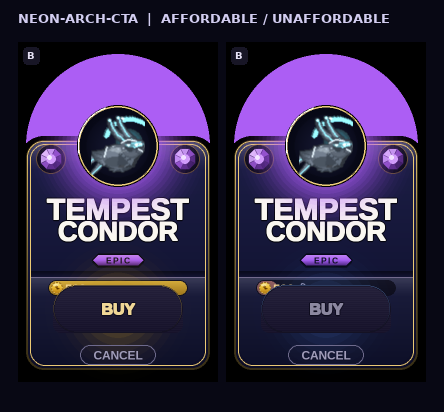
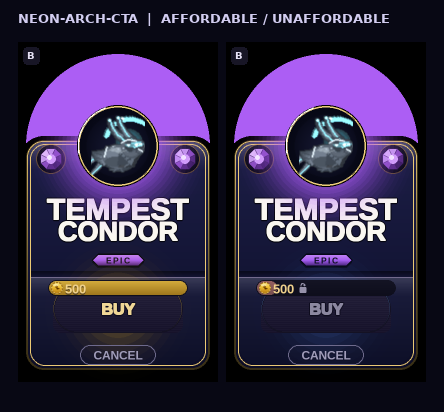
Add neon-arch-cta shelf concept round 1
Two-panel review sheet for the neon-arch CTA shelf: an arch-top BUY
slab (near-black enamel, neon rim + aura, scanlines) over a ghost
CANCEL pill, capped by a horizontal price meter. Affordable panel reads
gold; unaffordable shifts the neon to steel-blue with a short grey-red
meter fill and a padlock.

Claude-Session: https://claude.ai/code/session_01DaGYw11VdAubog2VGiiucC

Changed region(s): [[0.5856, 0.6699, 0.8784, 0.7282], [0.1171, 0.6699, 0.4099, 0.7282]]

diff --git a/tools/_store_confirm_shelf_v1_neon_arch_cta_r1.py b/tools/_store_confirm_shelf_v1_neon_arch_cta_r1.py
@@ -211,9 +211,11 @@ def render_popup(affordable):
     big.blit(shelf, shelf_rect.topleft)
 
     # ── neon-arch CTA cluster ──
-    _draw_price_meter(big, affordable)
+    # Meter is drawn LAST of the cluster so its status bar caps the arch crown
+    # rather than being buried under the taller BUY slab it overlaps.
     _draw_buy_arch(big, affordable)
     _draw_cancel_pill(big)
+    _draw_price_meter(big, affordable)
 
     # ── disc + aura + thumb (LAST, so the hero reads over the tray) ──
     cx_ss, cy_ss, r_ss = m(CX), m(DISC_CY), m(R_HERO)
